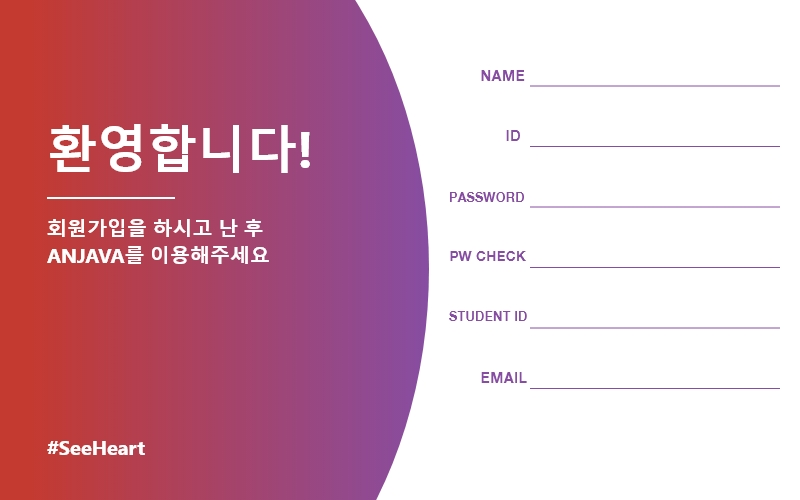
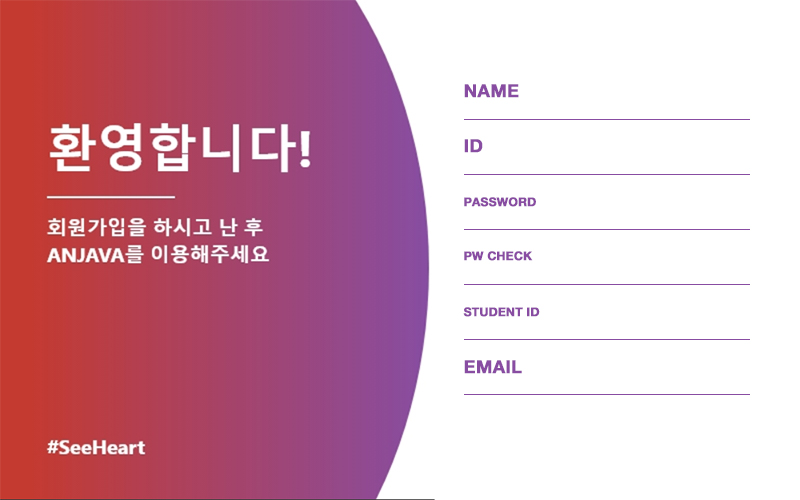
Add files via upload

diff --git a/com/anjava/SignUpPanel.java b/com/anjava/SignUpPanel.java
@@ -12,7 +12,7 @@ public class SignUpPanel extends JPanel{
 	String[] categories = {"Name", "ID", "Password", "Password Check", "Student ID", "Email"};
 	JTextField[] fields = new JTextField[categories.length];
 	JPasswordField[] pwdFields = new JPasswordField[2];
-	
+
 	public SignUpPanel(){
 
 		for(int i = 0; i < categories.length; i++) {			
@@ -24,6 +24,7 @@ public class SignUpPanel extends JPanel{
 					}
 				};
 				pwdFields[i-2].setToolTipText(categories[i]);
+				pwdFields[i-2].setBackground(new Color(255,0,255));
 				this.add(pwdFields[i-2]);
 			}else {
 			fields[i] = new JTextField(15){
@@ -32,11 +33,13 @@ public class SignUpPanel extends JPanel{
 				}
 			};
 			fields[i].setToolTipText(categories[i]);
+			fields[i].setBackground(new Color(255,0,255));
 			this.add(fields[i]);
 			}
 		}
 		
-		this.setBounds(550,130,200,200);
+		this.setBounds(550,70,200,320);
+		this.setBackground(new Color(255,255,255));
 		this.setLayout(new GridLayout(6,0,10,10));
 	}
 

diff --git a/com/anjava/SeatsPanel.java b/com/anjava/SeatsPanel.java
@@ -166,6 +166,7 @@ class SeatsPanel extends JPanel {
 	             }
 	         }
 	         add(buttonPanel);
+	         
 	         buttonPanel.setBounds(30,100,700,400);
 	         repaint();     
 	   }
@@ -293,9 +294,9 @@ class SeatsPanel extends JPanel {
 	            }
 	         });
 	          
-	          
-	          add(lb);
 	          add(okButton);
+	          add(lb);
+	          
 	          
 	          setVisible(true);
 	         }

diff --git a/com/anjava/DrawImage.java b/com/anjava/DrawImage.java
@@ -1,0 +1,18 @@
+package com.anjava;
+
+import java.awt.image.BufferedImage;
+import java.io.File;
+import java.io.IOException;
+
+import javax.imageio.ImageIO;
+import javax.swing.JLabel;
+
+class DrawImage extends JLabel {
+	
+	public static void main(String[] args) throws IOException {
+		File file = new File("image/mainLogin2.jpg");
+		BufferedImage img = ImageIO.read(file);
+		
+	}
+
+}

diff --git a/com/anjava/AntialiasedLabel.java b/com/anjava/AntialiasedLabel.java
@@ -6,7 +6,6 @@ import javax.swing.*;
 
 class AntialiasedLabel extends JLabel {
 	
-	
 
 	String text;
 
